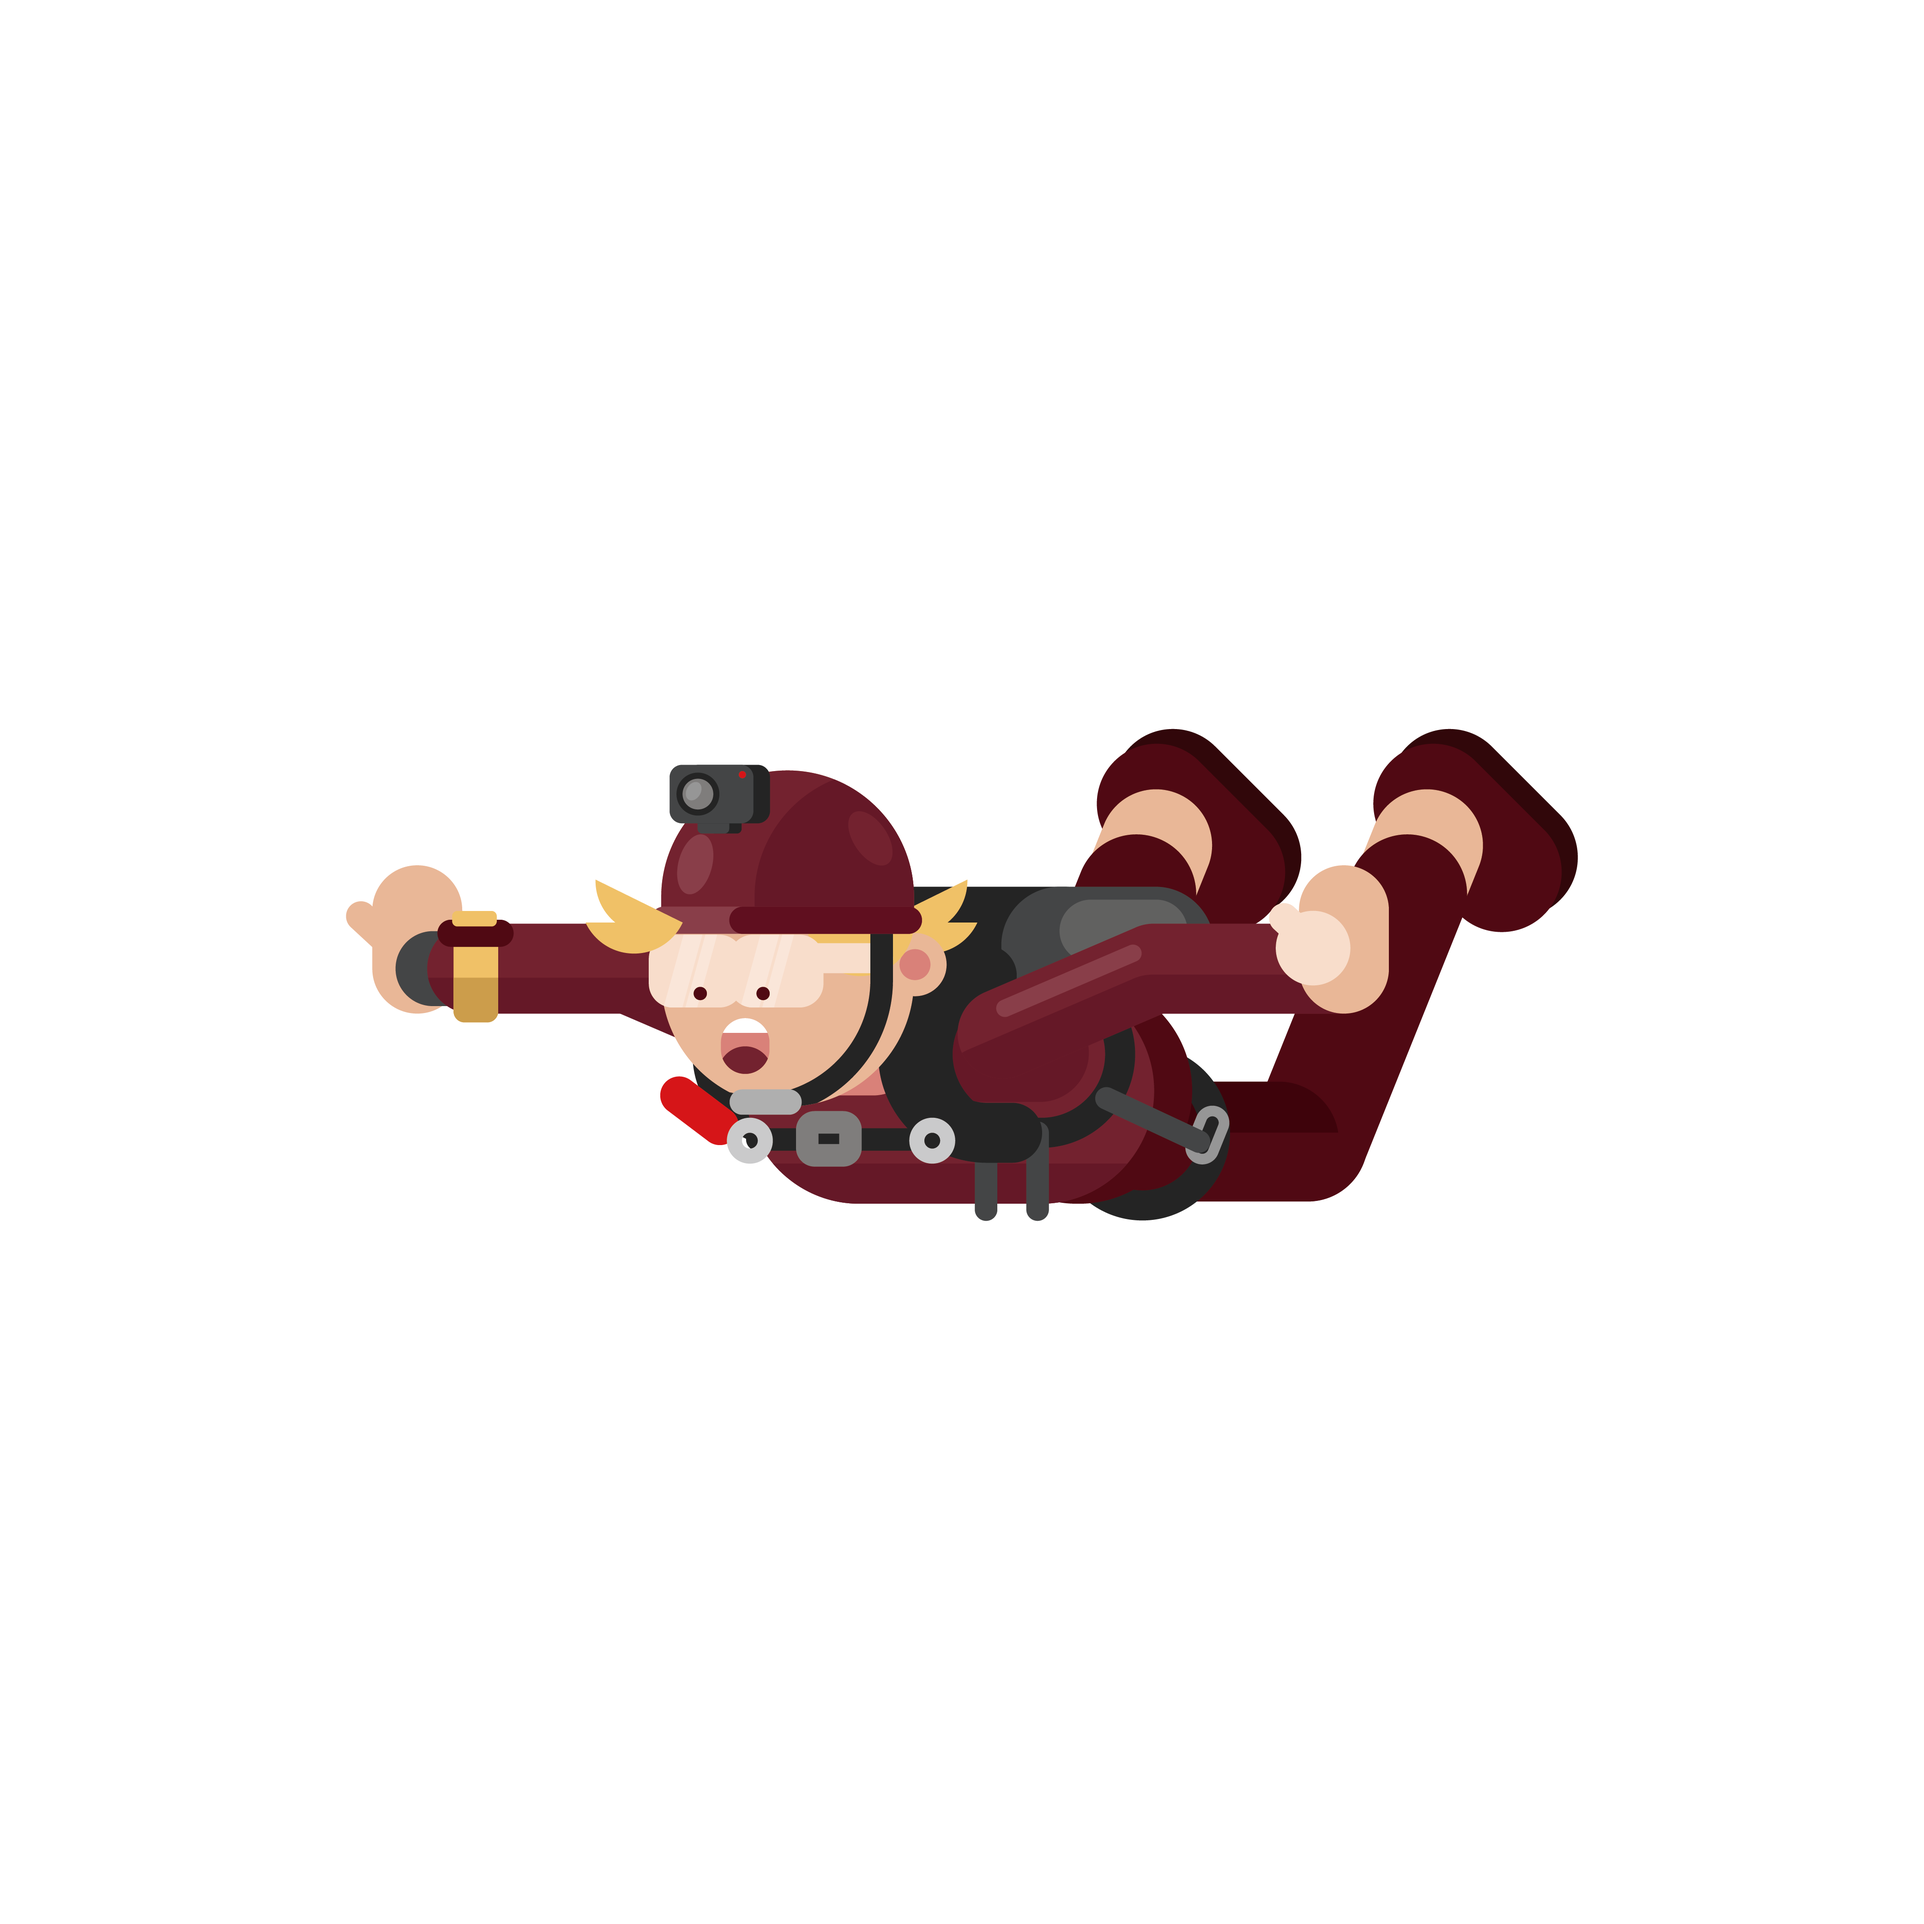
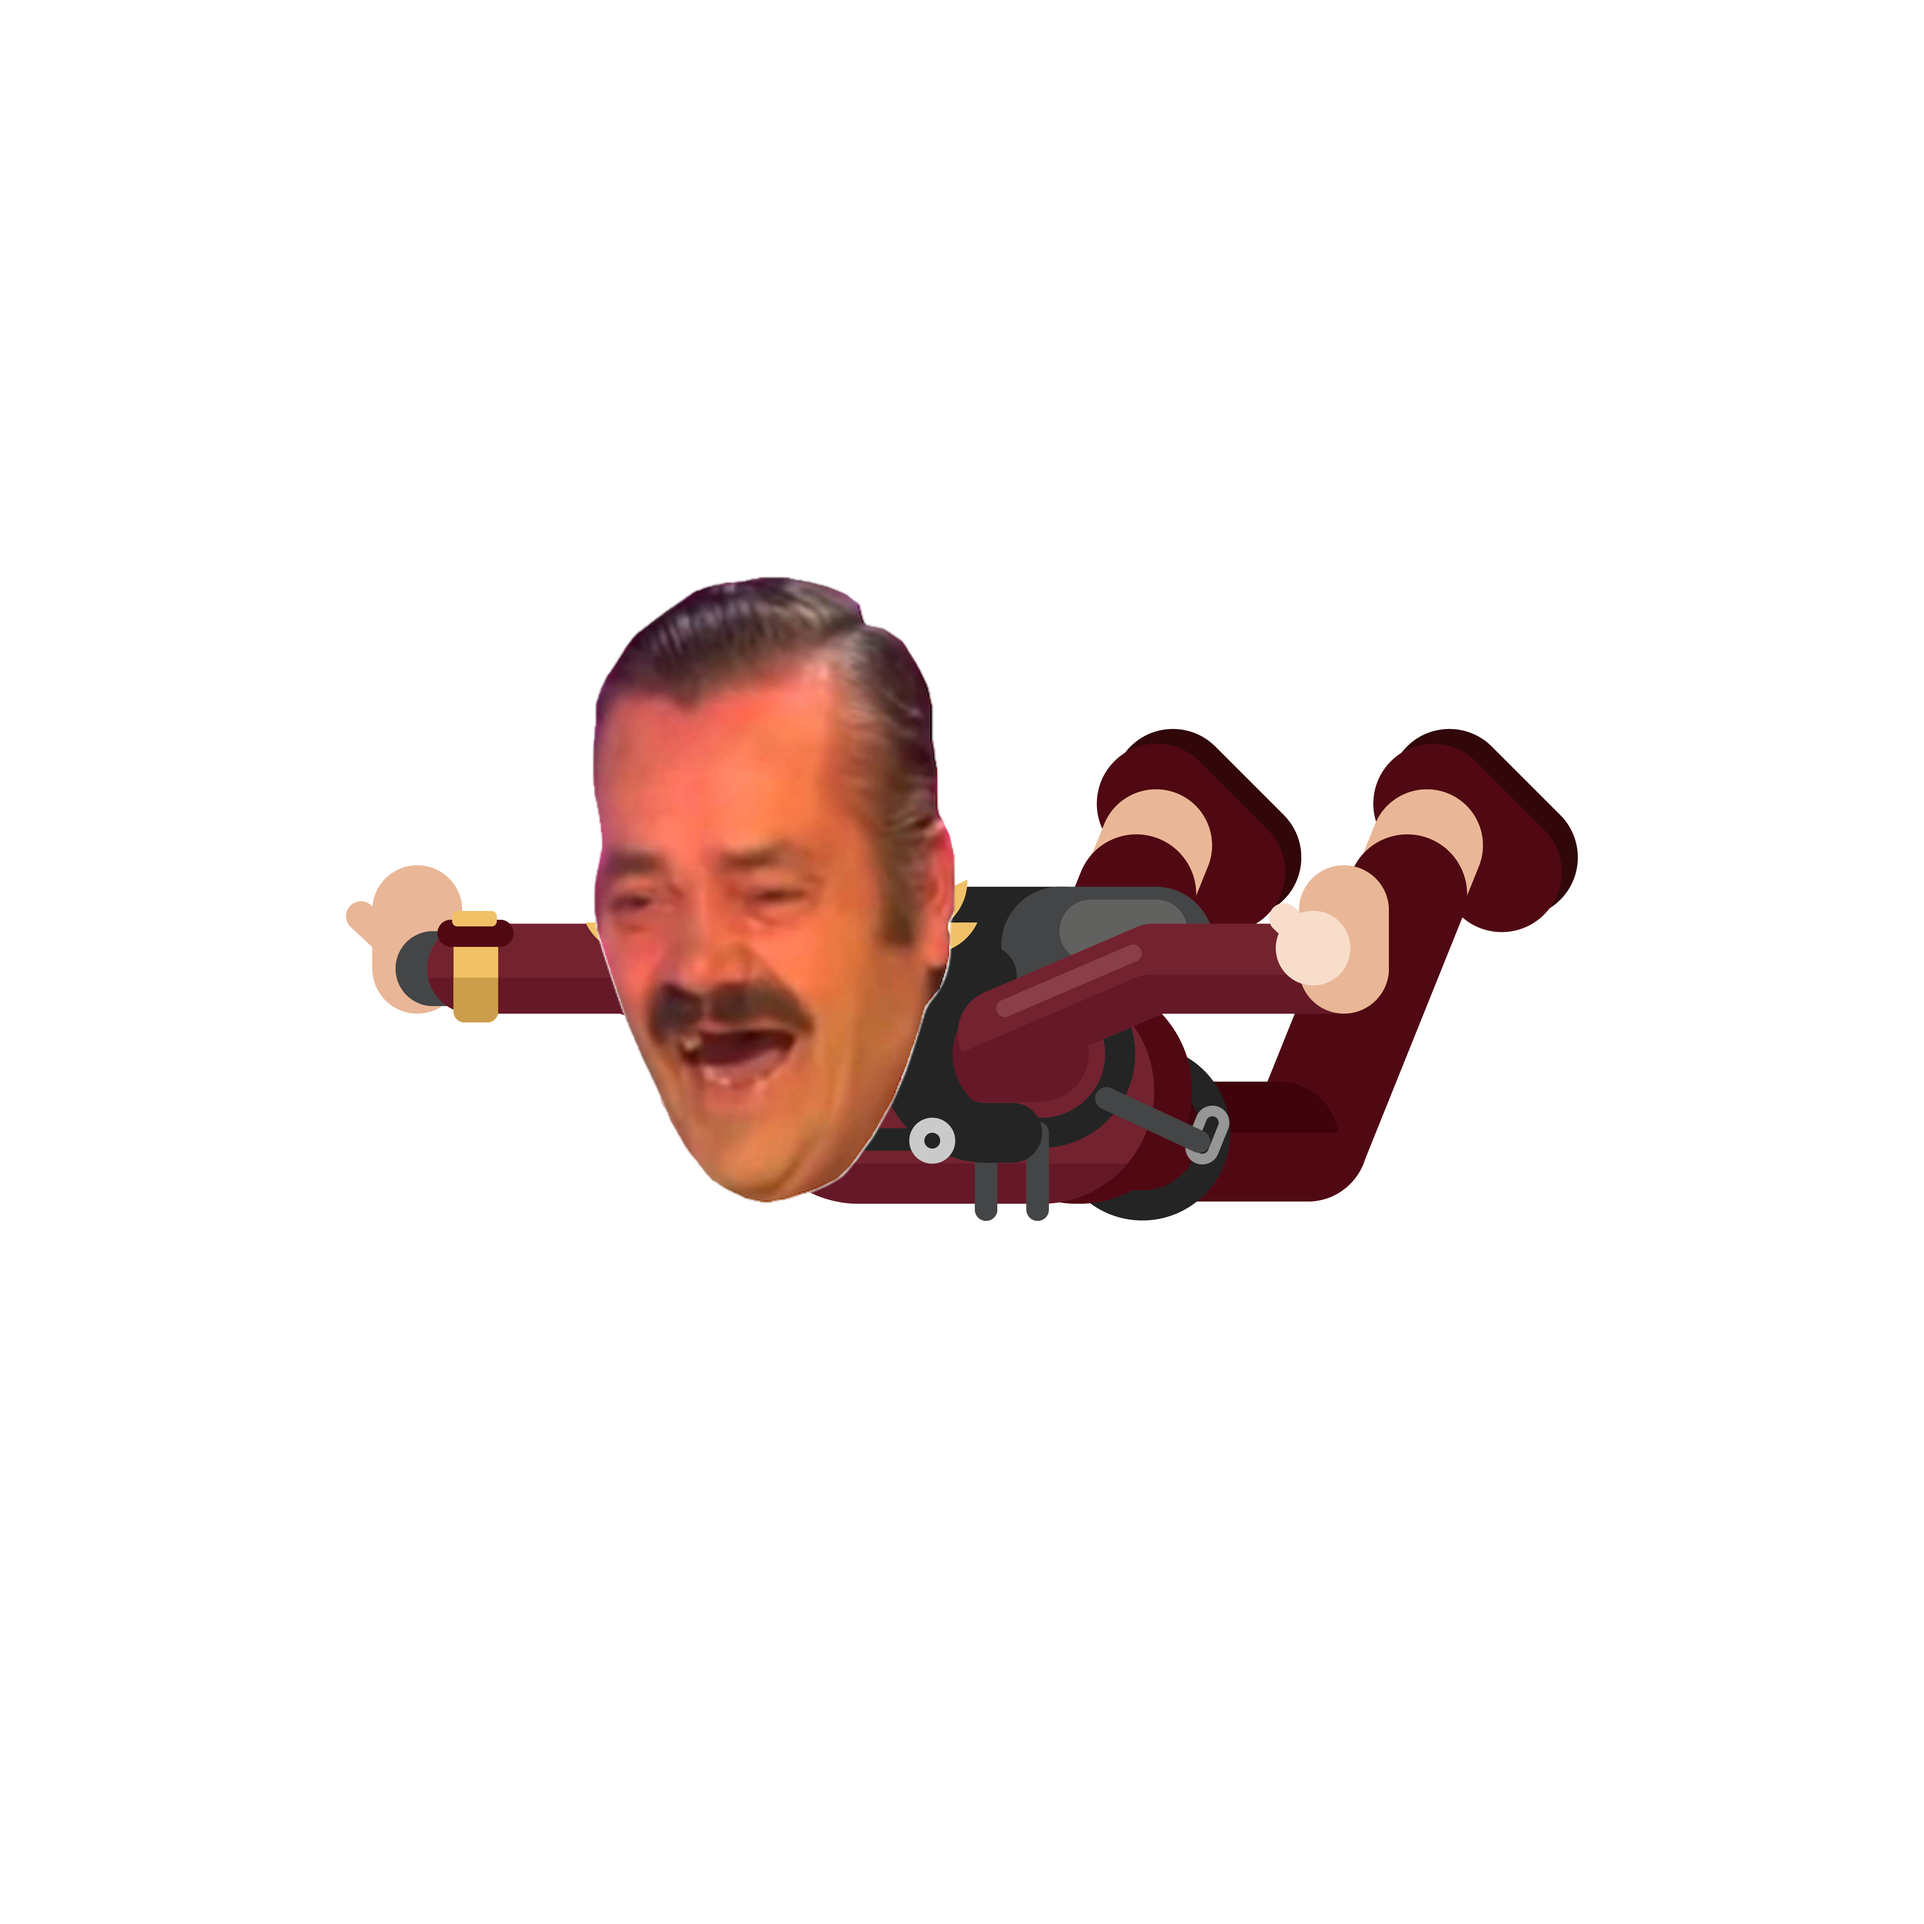
enemigos y velocidad

Changed region(s): [[0.2808, 0.2808, 0.4992, 0.624]]

diff --git a/Chiquito/game.js b/Chiquito/game.js
@@ -68,7 +68,6 @@ window.onload = function () {
         },
         drawAll: function () {
             this.background.draw()
-            this.player.draw(this.framesCounter)
             this.drawScore()
             this.enemy.forEach(enemy => enemy.draw())
             this.obstacles[0].draw()
@@ -76,6 +75,7 @@ window.onload = function () {
             for (let i = 1; i < this.obstacles.length; i++) {
                 this.obstacles[i].draw()
             }
+            this.player.draw(this.framesCounter)
         },
 
         moveAll: function () {
@@ -99,9 +99,9 @@ window.onload = function () {
             }
         },
         gnerateEnemys: function () {
-            if (this.framesCounter % 140 == 0) {
+            if (this.framesCounter % 300 == 0) {
                 console.log(this.enemy)
-                this.enemy.push(new Enemy("img/Cuñao.png", this.ctx, this.canvas.width, this.player.posY0, Math.floor(Math.random() * this.width - 100), this.player.heigh))
+                this.enemy.push(new Enemy("img/—Pngtree—extreme sport parachute athlete stimulate_3816413.png", this.ctx, this.canvas.width, this.player.posY0, Math.floor(Math.random() * this.width - 100), this.player.height))
             }
         },
         //-----------------------------------------------------------------

diff --git a/Chiquito/enemy.js b/Chiquito/enemy.js
@@ -1,16 +1,17 @@
 class Enemy {
     constructor(src, ctx, canvasH, canvasW, posX, posY) {
         this.ctx = ctx;
-        this.width = 80
-        this.height = 80
+        this.width = 220
+        this.height = 220
         this.canvasW = canvasW
-        this.velY = 1;
+        this.velY = 4;
         this.posX = posX;
         this.posY = posY;
         this.image = new Image()
         this.image.src = src
     }
     draw() {
+
         this.ctx.drawImage(this.image, this.posX, this.posY, this.width, this.height);
     }
     move() {
